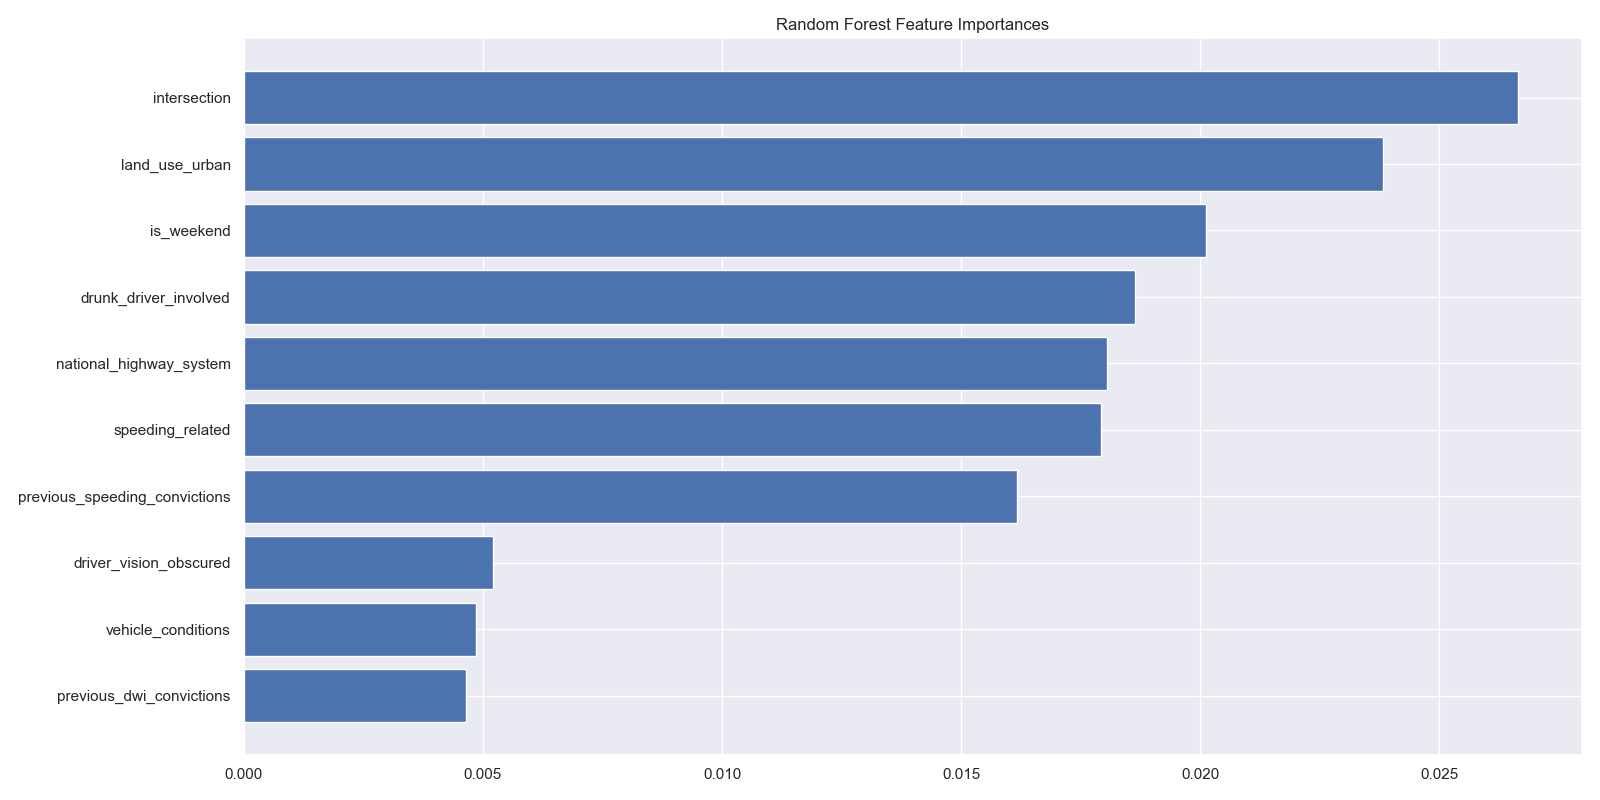
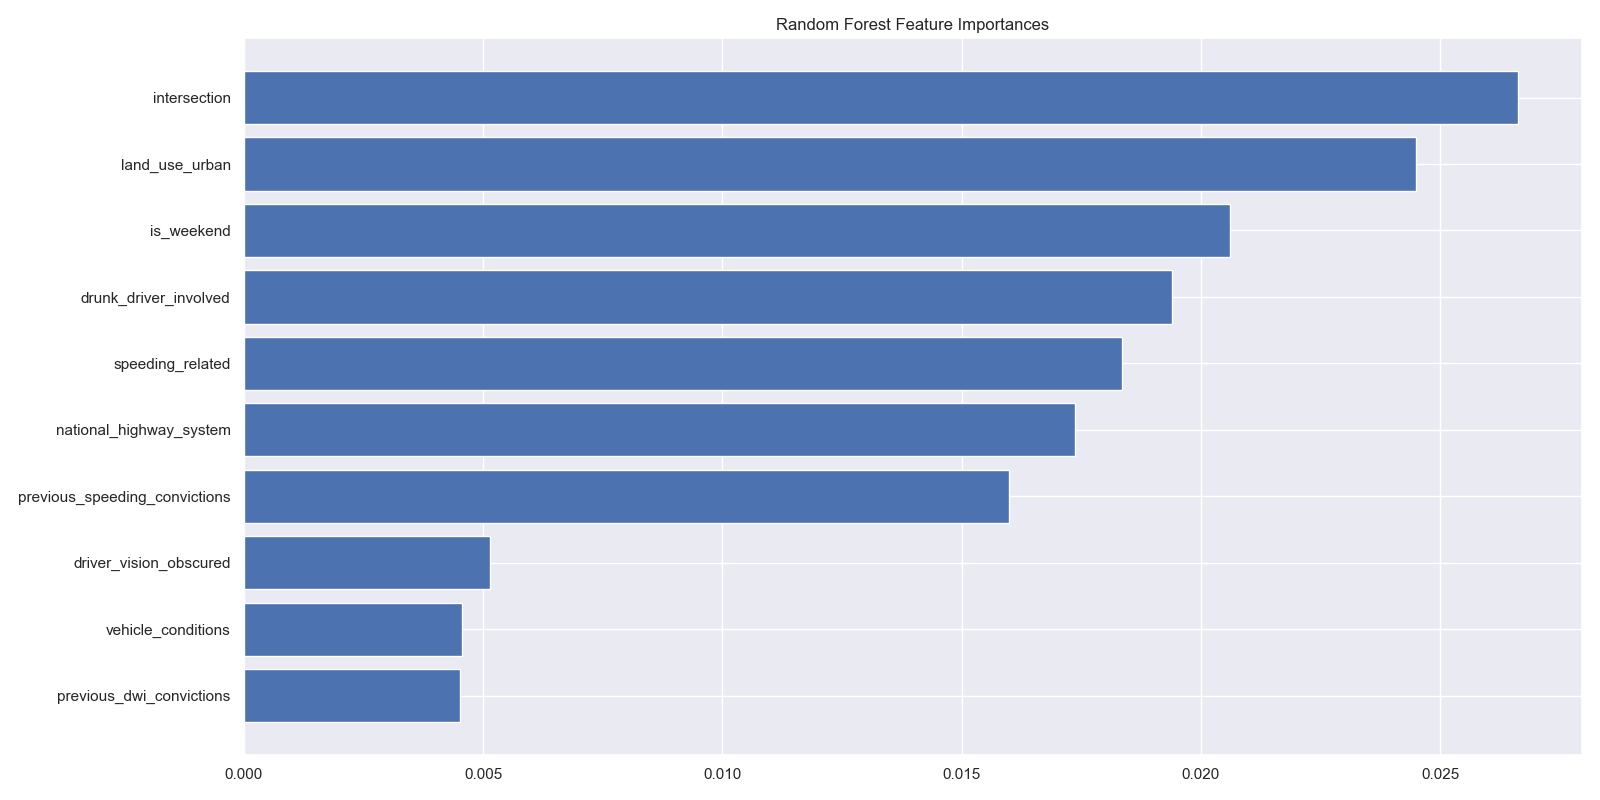
Added body type preprocessing and tweaked models

diff --git a/accidents/data_prep.py b/accidents/data_prep.py
@@ -34,6 +34,7 @@ def data_prep(data):
     # Replace Unknown and Not Reported values with NaN
     data.replace({'Unknown': np.nan,
                   'Not Reported': np.nan,
+                  'Trafficway Not in State Inventory': np.nan,
                   'Not Reported (Since 2010)': np.nan,
                   'Unknown Body Type': np.nan},
                  inplace=True)
@@ -51,6 +52,10 @@ def data_prep(data):
     data['previous_dwi_convictions'].replace({99: np.nan, 998: np.nan}, inplace=True)
     data['previous_speeding_convictions'].replace({99: np.nan, 998: np.nan}, inplace=True)
     data['speed_limit'].replace({98: np.nan, 99: np.nan}, inplace=True)
+
+    data['body_type'].replace(r'Unknown', np.nan, regex=True, inplace=True)
+
+    data.dropna(inplace=True)
 
     # Feature Engineering
 
@@ -73,27 +78,19 @@ def data_prep(data):
             return np.nan
 
     def binarize_col(x):
-        if np.isnan(x):
-            return x
-        elif x > 0:
+        if x > 0:
             return 1
         else:
             return 0
 
     def speeding_binary(x):
-        if type(x) is float:
-            return np.nan
         if 'Yes' in x:
             return 1
         elif 'No' in x:
             return 0
-        else:
-            return np.nan
 
     def vision_binary(x):
-        if type(x) is float:
-            return np.nan
-        elif x == 'No Obstruction Noted' or x == 'No Driver Present/Unknown if Driver Present':
+        if x == 'No Obstruction Noted' or x == 'No Driver Present/Unknown if Driver Present':
             return 0
         else:
             return 1
@@ -106,38 +103,29 @@ def data_prep(data):
 
     # Create part of day categorical column
     data['part_of_day'] = data['hour_of_day'].apply(hour_category)
-    # data.drop('hour_of_day', axis=1, inplace=True)
 
     # Create binary class column: is_weekend (0: weekday, 1: weekend)
     data['is_weekend'] = data['day_of_week'].apply(lambda x: 1 if x in ['Saturday', 'Sunday'] else 0)
-    # data.drop('day_of_week', axis=1, inplace=True)
 
     # Create binary class column: multiple_vehicles (0: single vehicle; 1: multiple vehicles)
     data['multiple_vehicles'] = data['num_vehicles'].apply(lambda x: 1 if x > 1 else 0)
-    # data.drop('num_vehicles', axis=1, inplace=True)
 
     # Create binary class column: nonmotorist_involed (0: no non-motorists; 1: non-motorist(s) involved)
     data['nonmotorist_involved'] = data['num_nonmotorists'].apply(lambda x: 1 if x > 0 else 0)
-    # data.drop('num_nonmotorists', axis=1, inplace=True)
 
     # Create binary class column: multiple_motorists (0: single motorist; 1: multiple motorists)
     data['multiple_motorists'] = data['num_motorists'].apply(lambda x: 1 if x > 1 else 0)
-    # data.drop('num_motorists', axis=1, inplace=True)
 
     # Create binary class column: drunk_driver_involved (0: no drunk driver; 1: drunk driver involved)
     data['drunk_driver_involved'] = data['num_drunk_drivers'].apply(lambda x: 1 if x > 0 else 0)
-    # data.drop('num_drunk_drivers', axis=1, inplace=True)
 
     # Create binary class label column: multiple fatalities (0: single fatality accident; 1: multiple fatalities)
     data['multiple_fatalities'] = data['num_fatalities'].apply(lambda x: 1 if x > 1 else 0)
-    # data.drop('num_fatalities', axis=1, inplace=True)
 
     data['previous_dwi_convictions'] = data['previous_dwi_convictions'].apply(binarize_col)
     data['previous_speeding_convictions'] = data['previous_speeding_convictions'].apply(binarize_col)
     data['speeding_related'] = data['speeding_related'].apply(speeding_binary)
     data['driver_vision_obscured'] = data['driver_vision_obscured'].apply(vision_binary)
-
-    data.dropna(inplace=True)
 
     # Reset columns types to integers
     cols = ['hour_of_day', 'national_highway_system', 'previous_dwi_convictions',

diff --git a/accidents/models.py b/accidents/models.py
@@ -31,8 +31,8 @@ def main():
     oe = OrdinalEncoder()
     features = oe.fit_transform(features)
 
-    # scaler = StandardScaler()
-    # features = scaler.fit_transform(features)
+    scaler = StandardScaler()
+    features = scaler.fit_transform(features)
 
     X_train, X_test, y_train, y_test = train_test_split(features, labels,
                                                         test_size=0.2, random_state=2020)
@@ -46,7 +46,7 @@ def main():
                                                  random_state=2020),
                           'rf'),
         'Logistic Regression': (LogisticRegressionCV(cv=5, scoring='f1',
-                                                     max_iter=500,
+                                                     max_iter=1000,
                                                      random_state=2020),
                                 'lr')
     }
@@ -62,8 +62,8 @@ def main():
         utils.print_metrics(y_test, y_pred)
         utils.roc_curve(y_test, y_probs, name, suffix)
         utils.feature_importance(model, feature_names, name, suffix)
-        utils.permutation_importances(model, X_test, y_test, feature_names, name, suffix + '_test')
-        utils.permutation_importances(model, X_train, y_train, feature_names, name, suffix + '_train')
+        utils.permutation_importances(model, X_test, y_test, feature_names, name, suffix)
+        utils.permutation_importances(model, X_train, y_train, feature_names, name, suffix, dataset='train')
         print('#' * 50)
 
 

diff --git a/utils.py b/utils.py
@@ -41,7 +41,7 @@ def roc_curve(labels, probs, name, suffix):
     plt.xlim([0.0, 1.0])
     plt.ylim([0.0, 1.0])
     plt.rcParams['font.size'] = 12
-    plt.title(f'ROC Curve for Multiple Fatality {name} Classifier')
+    plt.title(f'ROC Curve for {name} Classifier')
     plt.xlabel('False Positive Rate (1 - Specificity)')
     plt.ylabel('True Positive Rate (Sensitivity)')
     plt.legend(loc='lower right')
@@ -71,13 +71,13 @@ def feature_importance(model, feature_names, name, suffix, n_features=10):
     fig.savefig(f'visualizations/feature_importances_{suffix}.png')
 
 
-def permutation_importances(model, X, y, feature_names, name, suffix, n_features=10):
+def permutation_importances(model, X, y, feature_names, name, suffix, dataset='test', n_features=10):
     result = permutation_importance(model, X, y, n_repeats=10, random_state=2020)
     sorted_idx = result.importances_mean.argsort()[:n_features]
 
     fig, ax = plt.subplots(figsize=(16, 8))
     ax.boxplot(result.importances[sorted_idx].T,
                vert=False, labels=feature_names[sorted_idx])
-    ax.set_title(f'{name} Permutation Importances (test set)')
+    ax.set_title(f'{name} Permutation Importances ({dataset} set)')
     plt.show()
-    fig.savefig(f'visualizations/permutation_importances_{suffix}.png')
+    fig.savefig(f'visualizations/permutation_importances_{suffix}_{dataset}.png')

diff --git a/persons/models.py b/persons/models.py
@@ -61,8 +61,8 @@ def main():
         utils.print_metrics(y_test, y_pred)
         utils.roc_curve(y_test, y_probs, name, suffix)
         utils.feature_importance(model, feature_names, name, suffix)
-        utils.permutation_importances(model, X_test, y_test, feature_names, name, suffix + '_test')
-        # utils.permutation_importances(model, X_train, y_train, feature_names, name, suffix + '_train')
+        utils.permutation_importances(model, X_test, y_test, feature_names, name, suffix)
+        utils.permutation_importances(model, X_train, y_train, feature_names, name, suffix, dataset='train')
         print('#' * 50)
 
 

diff --git a/persons/data_prep.py b/persons/data_prep.py
@@ -43,6 +43,8 @@ def data_prep(data):
     data['age'].replace({998: np.nan,
                          999: np.nan}, inplace=True)
 
+    data['body_type'].replace(r'Unknown', np.nan, regex=True, inplace=True)
+
     data.dropna(inplace=True)
 
     data['sex'] = data['sex'].apply(lambda x: 1 if x == 'Male' else 0)
